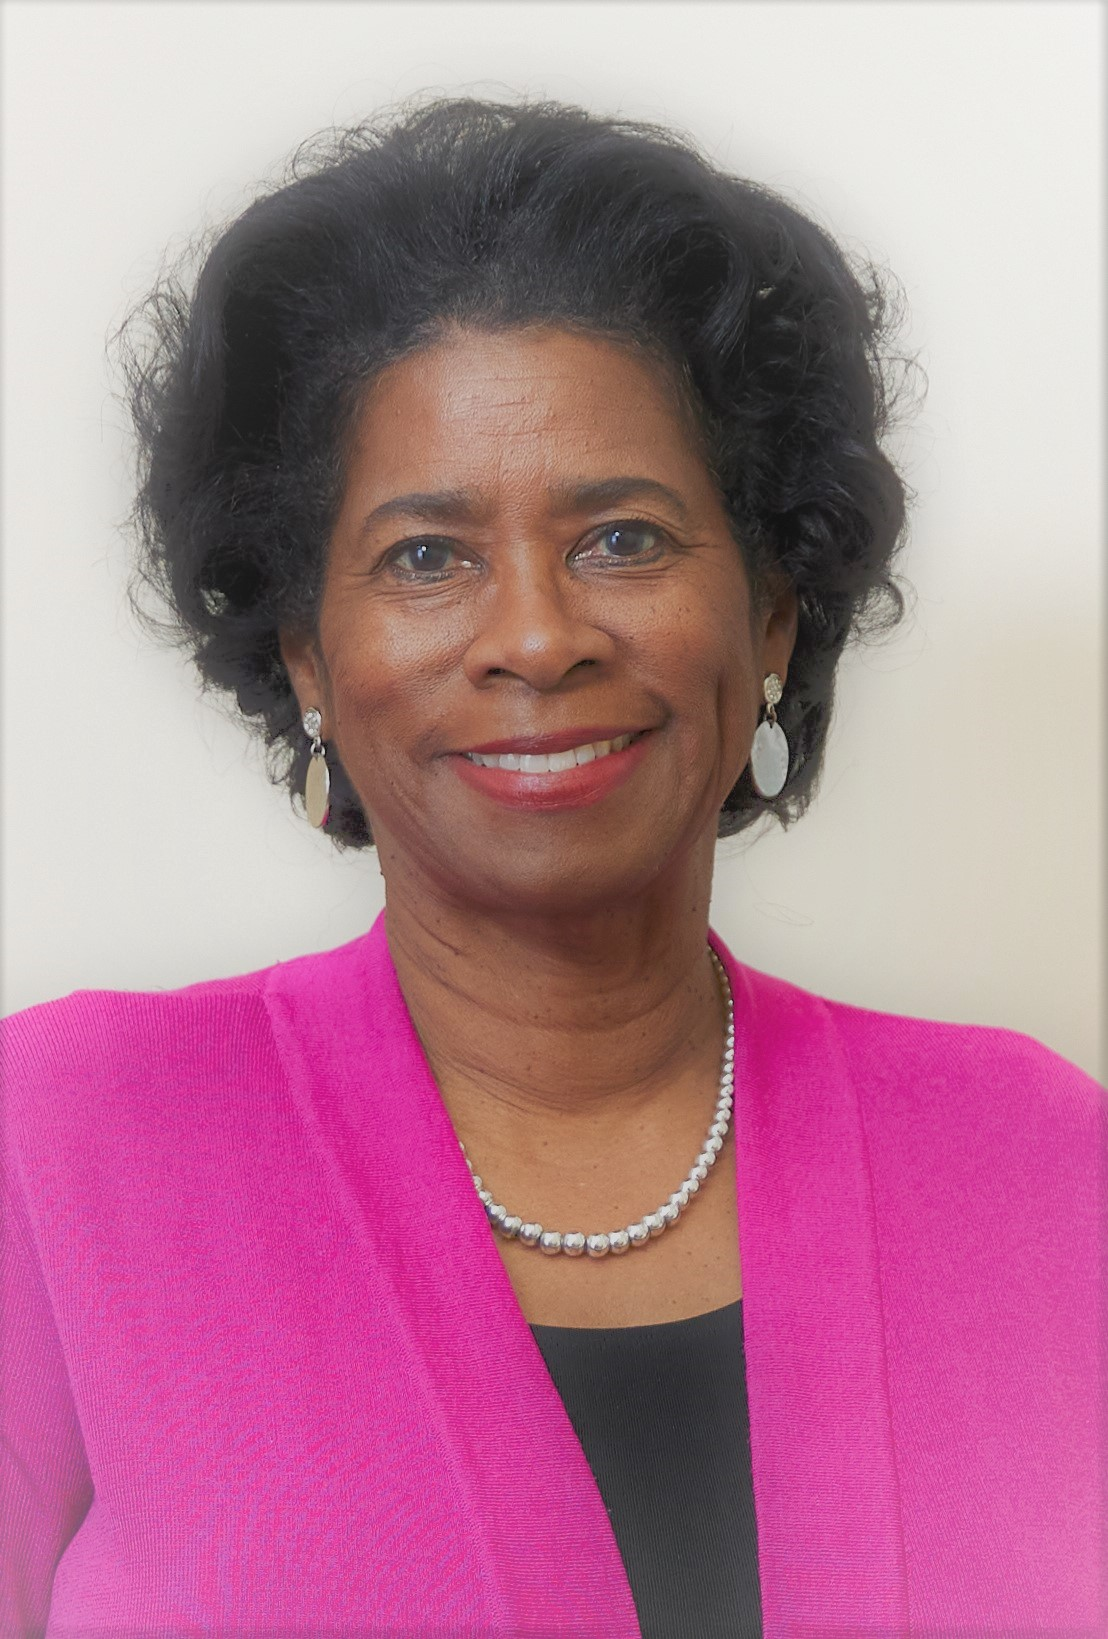
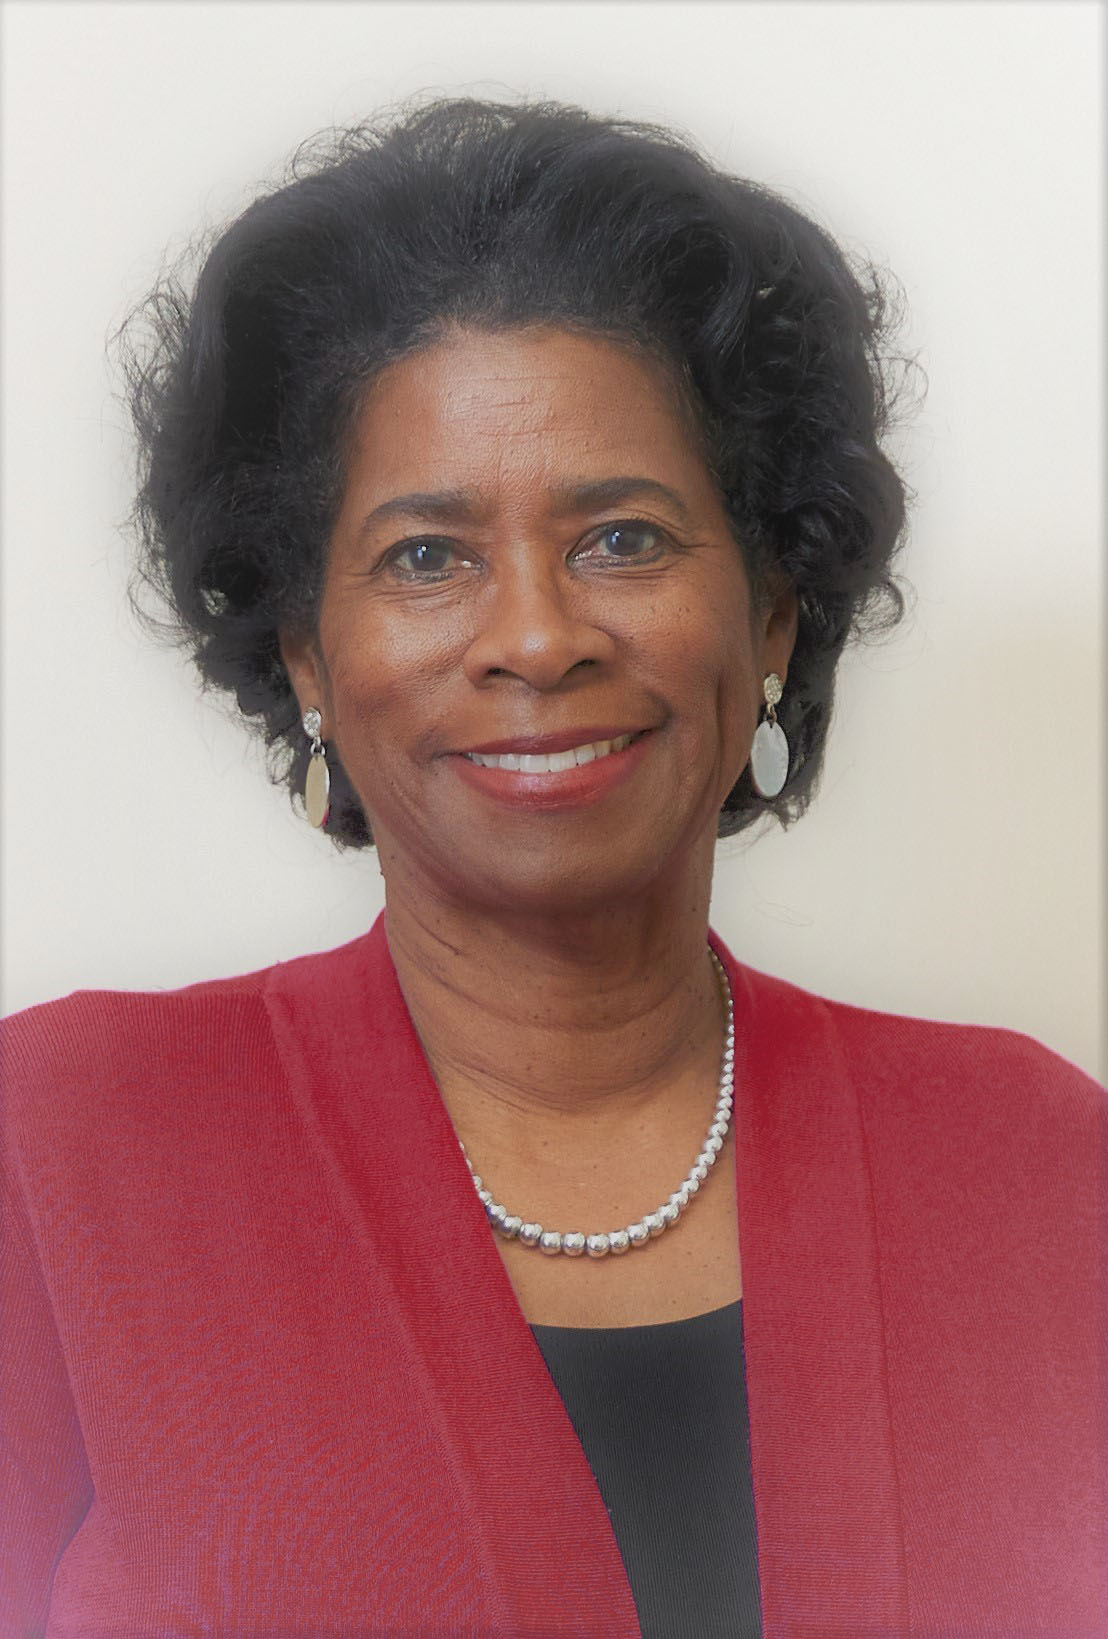
Update to Adrienne's Photo

diff --git a/index.html b/index.html
@@ -55,7 +55,7 @@
                                         Psychology</span></h1>
                             </div>
                             <img class="primary-photo"
-                                src="./resources/media/images/Dr-Adrienne-Davis-website-photo-updated-cropped.jpg"
+                                src="./resources/media/images/Dr-Adrienne-Davis-website-photo-updated-copy.jpg"
                                 alt="Dr. Adrienne Davis" />
                         </div>
                     </div>
@@ -128,7 +128,7 @@
                             <div>
                                 <h1 style="font-size: 3rem;"><span>Adrienne C. Davis, Ph.D. ABPP</span></h1>
                                 <img class="secondary-photo"
-                                    src="./resources/media/images/Dr-Adrienne-Davis-website-photo-updated-cropped.jpg"
+                                    src="./resources/media/images/Dr-Adrienne-Davis-website-photo-updated-copy-cropped.jpg"
                                     alt="Dr. Adrienne Davis" />
                             </div>
                         </div>
@@ -199,7 +199,7 @@
                                 <h1 style="font-size: 3rem;"><span>Adrienne C. Davis, Ph.D. ABPP</span></h1>
 
                                 <img class="secondary-photo"
-                                    src="./resources/media/images/Dr-Adrienne-Davis-website-photo-updated-cropped.jpg"
+                                    src="./resources/media/images/Dr-Adrienne-Davis-website-photo-updated-copy-cropped.jpg"
                                     alt="Dr. Adrienne Davis" />
 
                             </div>
